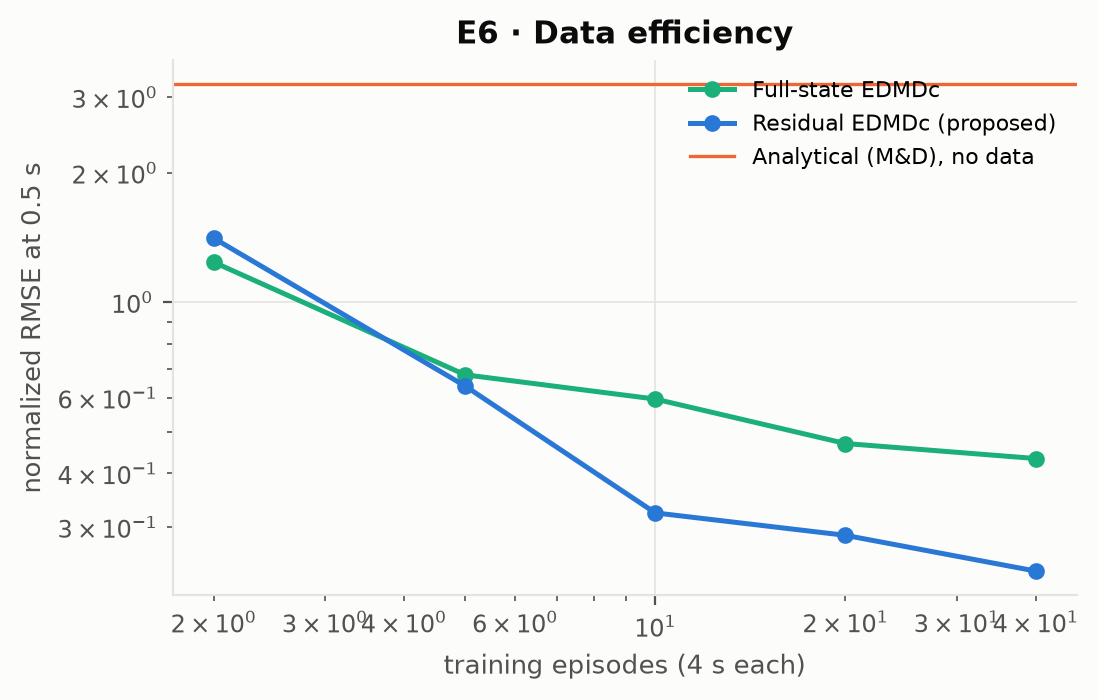
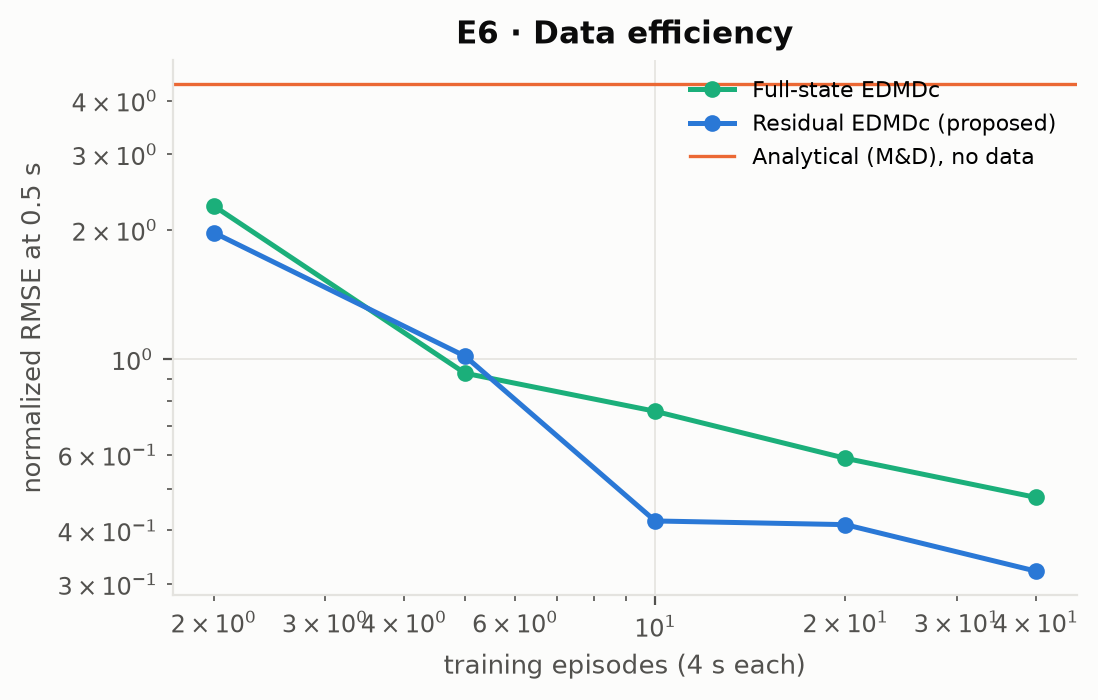
Regenerate Koopman prediction results
Re-run with the corrected data-generation filter and z integration, and
limit BLAS to one thread per process.

diff --git a/experiments/e6_koopman_prediction.py b/experiments/e6_koopman_prediction.py
@@ -10,6 +10,12 @@ H4 (data efficiency) and generalization to family B.
 Outputs: results/tables/e6_koopman_prediction.md, results/figures/e6_multistep_error.png,
          results/figures/e6_data_efficiency.png, results/figures/e6_full_edmdc_eigs.png
 """
+import os
+
+# One BLAS/OpenMP thread per process: the experiments parallelize over runs instead.
+for _v in ("OMP_NUM_THREADS", "OPENBLAS_NUM_THREADS", "MKL_NUM_THREADS", "VECLIB_MAXIMUM_THREADS"):
+    os.environ.setdefault(_v, "1")
+
 import sys
 import warnings
 from pathlib import Path

diff --git a/results/tables/e6_koopman_prediction.md b/results/tables/e6_koopman_prediction.md
@@ -6,7 +6,7 @@ Dictionary: constant + 9 standardized states/filtered inputs + all degree-2 mono
 
 ## H1: spectrum of the full-state EDMDc operator
 
-Trained on family A: 4 of 55 eigenvalues have |λ| > 1; spectral radius 1.0054. Trained on randomized families: 3 of 55; spectral radius 1.0193.
+Trained on family A: 4 of 55 eigenvalues have |λ| > 1; spectral radius 1.0070. Trained on randomized families: 3 of 55; spectral radius 1.0276.
 
 ## Multi-step open-loop prediction error (normalized RMSE, mean over the 7 states)
 
@@ -14,27 +14,27 @@ Trained on family A: 4 of 55 eigenvalues have |λ| > 1; spectral radius 1.0054. 
 
 | Model, test set | 5 ms | 20 ms | 50 ms | 100 ms | 200 ms | 500 ms | 1000 ms | 2000 ms | 3000 ms |
 |---|---|---|---|---|---|---|---|---|---|
-| Analytical (M&D), family A | 0.114 | 0.469 | 1.161 | 2.285 | 4.012 | 3.215 | 5.126 | 7.301 | 13.577 |
-| Full-state EDMDc, family A | 0.013 | 0.026 | 0.059 | 0.128 | 0.205 | 0.433 | 0.697 | 1.669 | 4.968 |
-| Residual EDMDc (proposed), family A | 0.012 | 0.050 | 0.066 | 0.114 | 0.153 | 0.237 | 0.421 | 1.341 | 3.546 |
-| No-change baseline, family A | 0.137 | 0.614 | 1.411 | 1.927 | 1.953 | 1.885 | 2.033 | 2.171 | 2.215 |
-| Analytical (M&D), family B (held out) | 0.160 | 0.636 | 1.557 | 3.065 | 5.193 | 3.772 | 5.568 | 6.021 | 9.857 |
-| Full-state EDMDc, family B (held out) | 0.230 | 0.910 | 2.180 | 4.370 | 8.485 | 14.940 | 12.254 | 48.050 | 147.841 |
-| Residual EDMDc (proposed), family B (held out) | 0.226 | 0.895 | 2.168 | 4.390 | 8.788 | 12.678 | 11.806 | 16.150 | 8.664 |
-| No-change baseline, family B (held out) | 0.165 | 0.786 | 1.560 | 1.951 | 2.019 | 1.905 | 1.926 | 1.924 | 2.031 |
+| Analytical (M&D), family A | 0.157 | 0.654 | 1.600 | 3.166 | 5.729 | 4.367 | 7.088 | 7.926 | 13.957 |
+| Full-state EDMDc, family A | 0.014 | 0.040 | 0.080 | 0.171 | 0.246 | 0.477 | 0.912 | 3.454 | 14.113 |
+| Residual EDMDc (proposed), family A | 0.016 | 0.098 | 0.111 | 0.152 | 0.209 | 0.322 | 0.641 | 2.714 | 6.226 |
+| No-change baseline, family A | 0.164 | 0.813 | 1.875 | 2.415 | 2.438 | 2.268 | 2.379 | 2.509 | 2.555 |
+| Analytical (M&D), family B (held out) | 0.222 | 0.884 | 2.173 | 4.312 | 7.579 | 5.157 | 7.940 | 6.950 | 10.288 |
+| Full-state EDMDc, family B (held out) | 0.322 | 1.278 | 3.050 | 6.094 | 12.181 | 24.024 | 26.244 | 130.521 | 540.555 |
+| Residual EDMDc (proposed), family B (held out) | 0.315 | 1.241 | 2.992 | 5.982 | 12.121 | 17.580 | 19.905 | 23.970 | 30.623 |
+| No-change baseline, family B (held out) | 0.218 | 1.109 | 2.113 | 2.505 | 2.576 | 2.423 | 2.436 | 2.406 | 2.491 |
 
 ### Models trained on domain-randomized families (B outside the ranges)
 
 | Model, test set | 5 ms | 20 ms | 50 ms | 100 ms | 200 ms | 500 ms | 1000 ms | 2000 ms | 3000 ms |
 |---|---|---|---|---|---|---|---|---|---|
-| Analytical (M&D), family A | 0.114 | 0.469 | 1.161 | 2.285 | 4.012 | 3.215 | 5.126 | 7.301 | 13.577 |
-| Full-state EDMDc, family A | 0.076 | 0.317 | 0.842 | 1.837 | 4.394 | 11.922 | 77.521 | 3995.028 | 197927.908 |
-| Residual EDMDc (proposed), family A | 0.075 | 0.299 | 0.778 | 1.730 | 4.033 | 7.695 | 7.915 | 9.877 | 12.214 |
-| No-change baseline, family A | 0.137 | 0.614 | 1.411 | 1.927 | 1.953 | 1.885 | 2.033 | 2.171 | 2.215 |
-| Analytical (M&D), family B (held out) | 0.160 | 0.636 | 1.557 | 3.065 | 5.193 | 3.772 | 5.568 | 6.021 | 9.857 |
-| Full-state EDMDc, family B (held out) | 0.128 | 0.548 | 1.351 | 2.840 | 6.642 | 15.449 | 103.072 | 5472.155 | 255839.933 |
-| Residual EDMDc (proposed), family B (held out) | 0.126 | 0.537 | 1.333 | 2.823 | 6.401 | 9.439 | 13.436 | 16.161 | 20.385 |
-| No-change baseline, family B (held out) | 0.165 | 0.786 | 1.560 | 1.951 | 2.019 | 1.905 | 1.926 | 1.924 | 2.031 |
+| Analytical (M&D), family A | 0.157 | 0.654 | 1.600 | 3.166 | 5.729 | 4.367 | 7.088 | 7.926 | 13.957 |
+| Full-state EDMDc, family A | 0.111 | 0.483 | 1.310 | 2.938 | 8.193 | 48.006 | 748.837 | 129257.588 | 798147.509 |
+| Residual EDMDc (proposed), family A | 0.101 | 0.403 | 1.038 | 2.355 | 6.028 | 11.239 | 15.651 | 22.397 | 27.331 |
+| No-change baseline, family A | 0.164 | 0.813 | 1.875 | 2.415 | 2.438 | 2.268 | 2.379 | 2.509 | 2.555 |
+| Analytical (M&D), family B (held out) | 0.222 | 0.884 | 2.173 | 4.312 | 7.579 | 5.157 | 7.940 | 6.950 | 10.288 |
+| Full-state EDMDc, family B (held out) | 0.176 | 0.782 | 1.938 | 4.175 | 11.664 | 61.777 | 1101.970 | 151002.173 | 836062.996 |
+| Residual EDMDc (proposed), family B (held out) | 0.174 | 0.739 | 1.767 | 3.684 | 8.462 | 14.805 | 18.296 | 28.242 | 37.398 |
+| No-change baseline, family B (held out) | 0.218 | 1.109 | 2.113 | 2.505 | 2.576 | 2.423 | 2.436 | 2.406 | 2.491 |
 
 Normalization: each state divided by its standard deviation in the training data.
 
@@ -42,6 +42,6 @@ Normalization: each state divided by its standard deviation in the training data
 
 | Training episodes | 2 | 5 | 10 | 20 | 40 |
 |---|---|---|---|---|---|
-| Full-state EDMDc | 1.240 | 0.678 | 0.595 | 0.469 | 0.433 |
-| Residual EDMDc (proposed) | 1.411 | 0.639 | 0.323 | 0.287 | 0.237 |
-| Analytical (M&D), no data | 3.215 | 3.215 | 3.215 | 3.215 | 3.215 |
+| Full-state EDMDc | 2.279 | 0.929 | 0.757 | 0.589 | 0.477 |
+| Residual EDMDc (proposed) | 1.974 | 1.018 | 0.421 | 0.412 | 0.322 |
+| Analytical (M&D), no data | 4.367 | 4.367 | 4.367 | 4.367 | 4.367 |
